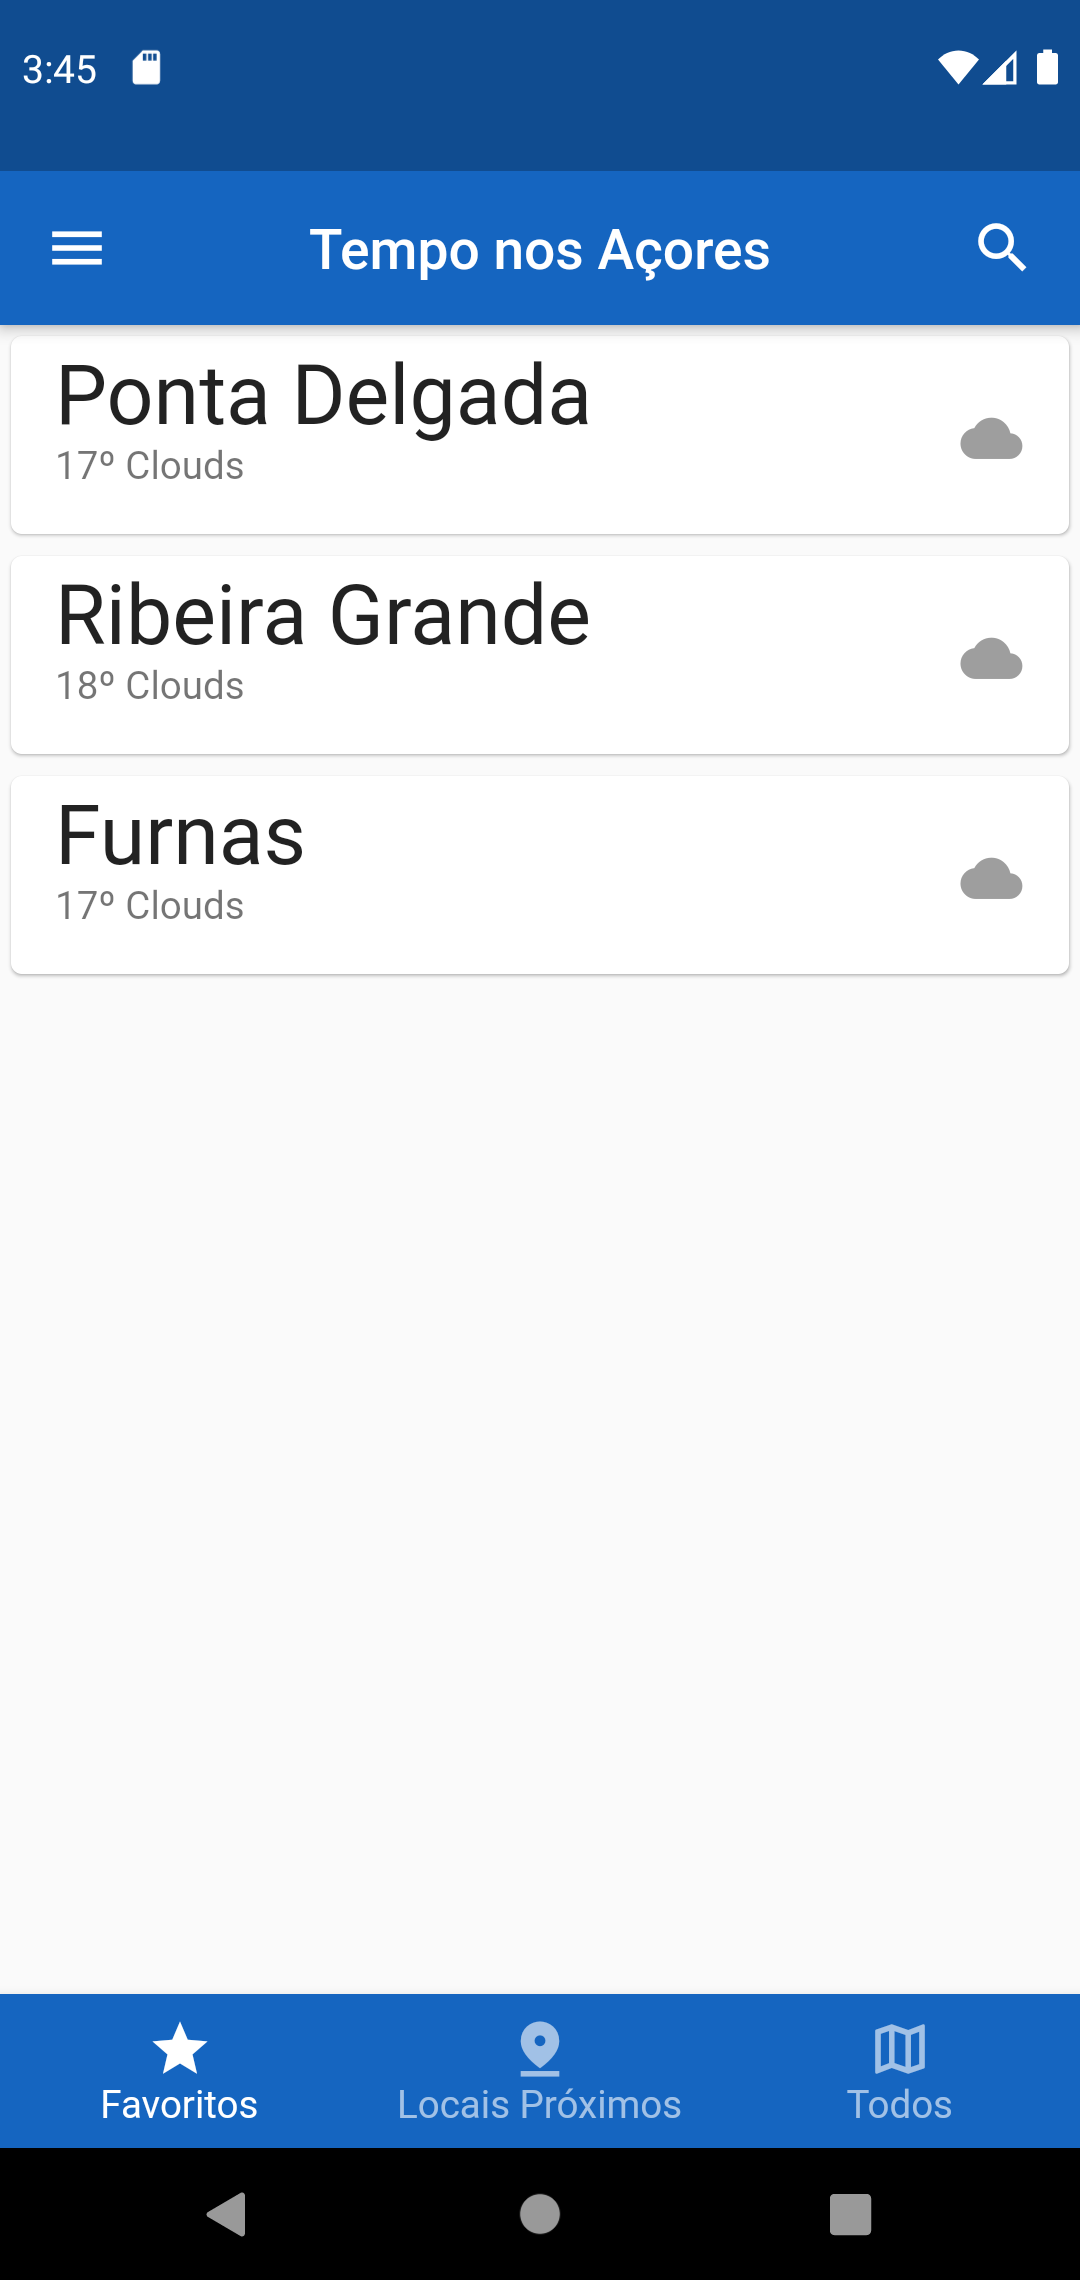
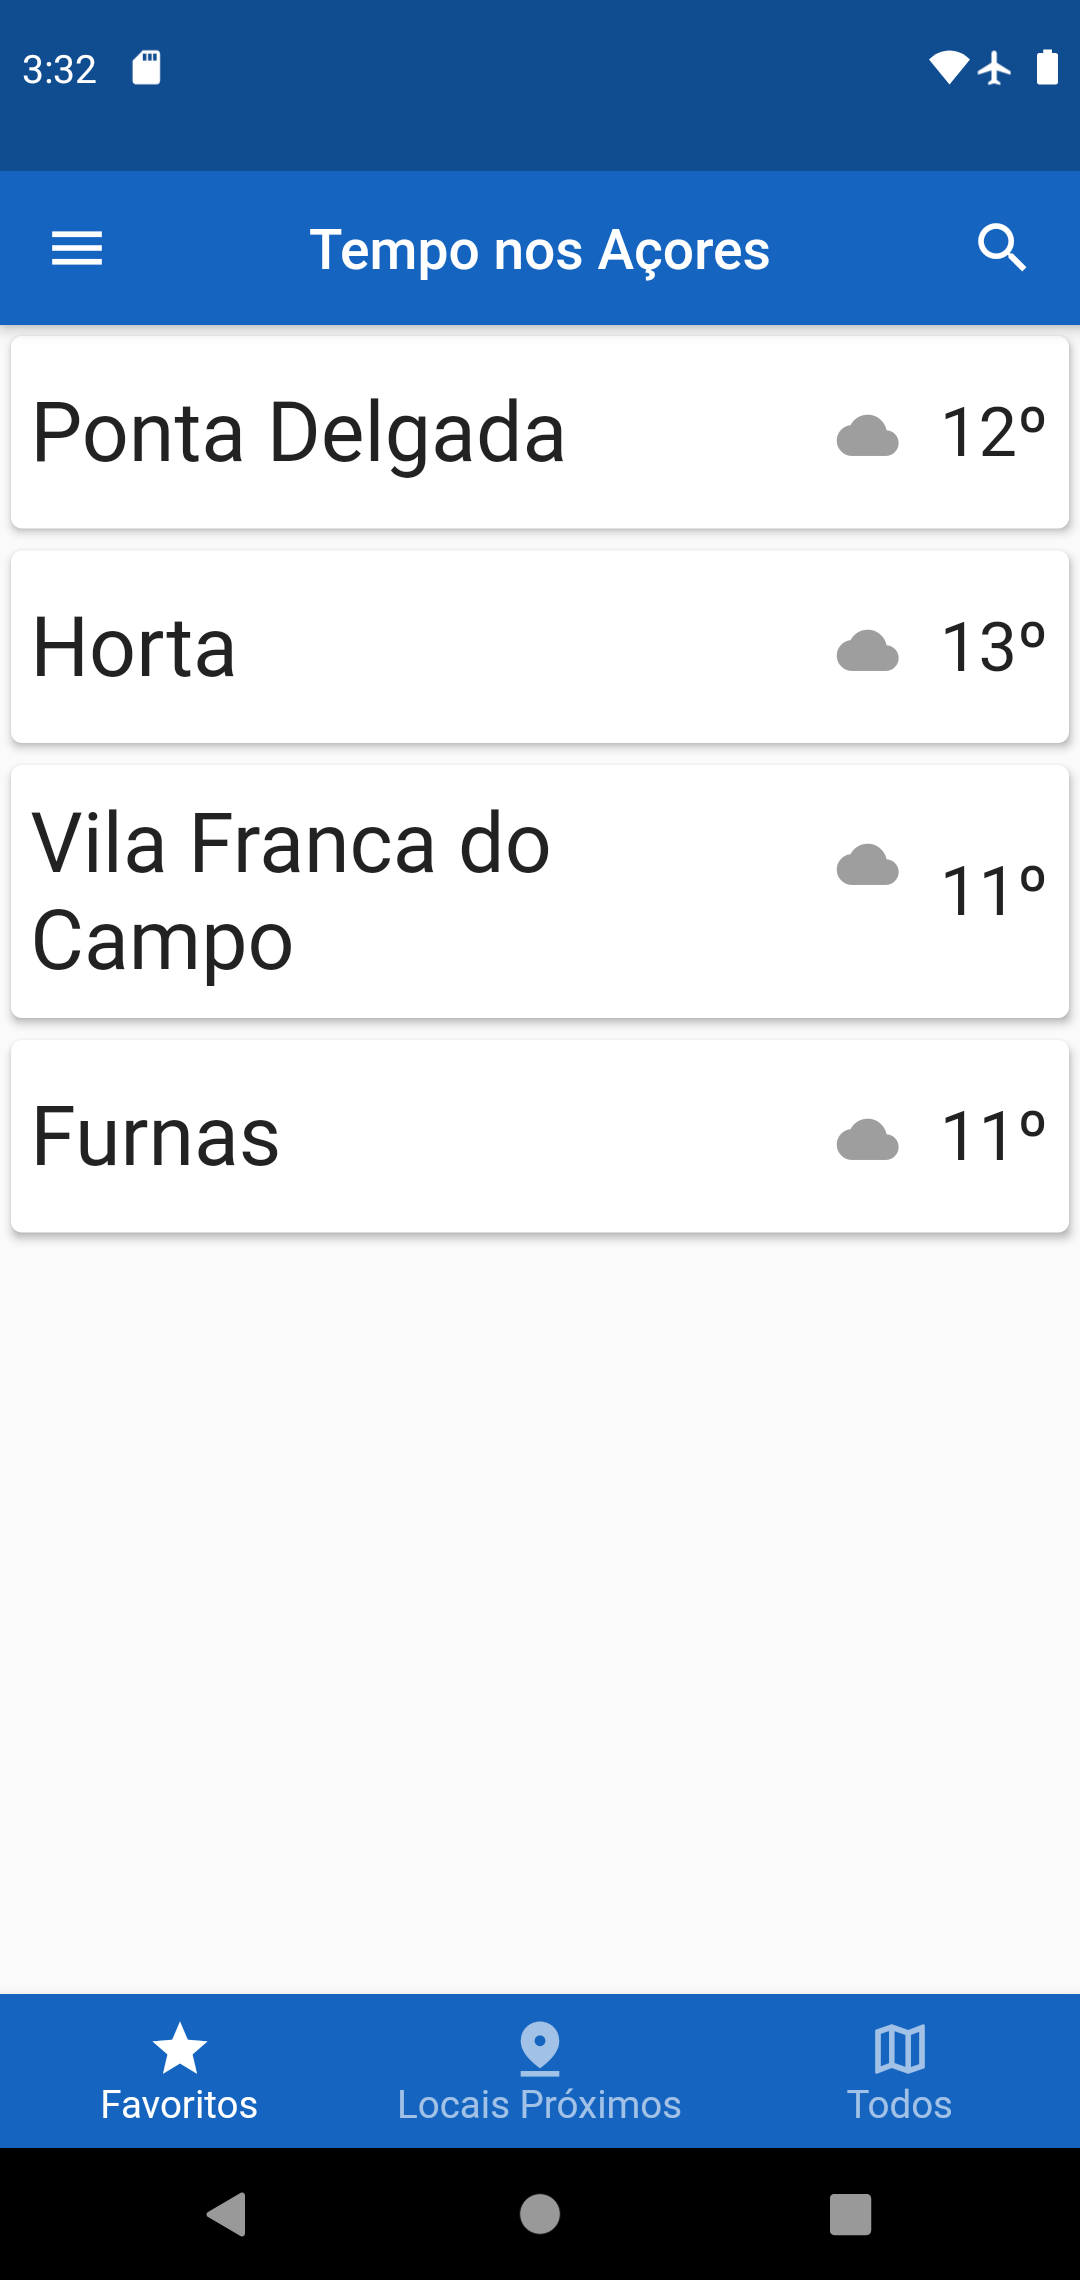
SpotPage done closes #7

diff --git a/azores_weather/lib/features/weather/presentation/pages/spot_page.dart b/azores_weather/lib/features/weather/presentation/pages/spot_page.dart
@@ -1,0 +1,192 @@
+import 'package:azores_weather/features/weather/domain/entities/spot.dart';
+import 'package:azores_weather/features/weather/presentation/widgets/weather_icon.dart';
+import 'package:flutter/material.dart';
+import 'package:flutter_icons/flutter_icons.dart';
+
+class SpotPage extends StatelessWidget {
+  final Spot spot;
+
+  const SpotPage({Key key, this.spot}) : super(key: key);
+  @override
+  Widget build(BuildContext context) {
+    return Scaffold(
+        appBar: AppBar(
+          centerTitle: true,
+          title: Text(
+            spot.name,
+          ),
+          actions: [
+            Padding(
+              padding: EdgeInsets.symmetric(horizontal: 16),
+              child: Icon(Icons.star_outline),
+            ),
+          ],
+        ),
+        body: Column(children: <Widget>[
+          Stack(
+            children: <Widget>[
+              Container(alignment: Alignment.topCenter, child: getSpotImage()),
+              Positioned(
+                bottom: 10,
+                right: 250,
+                child: Container(
+                  alignment: Alignment.bottomLeft,
+                  child: Card(
+                    margin: EdgeInsets.all(8),
+                    child: Padding(
+                      padding: const EdgeInsets.all(7.0),
+                      child: Row(
+                        children: [
+                          Icon(
+                            Icons.thermostat_rounded,
+                            size: 40,
+                          ),
+                          Text(
+                            spot.currentTemperature.toString() + "º",
+                            style: TextStyle(fontSize: 40.0),
+                          ),
+                        ],
+                      ),
+                    ),
+                  ),
+                ),
+              ),
+            ],
+          ),
+          new Expanded(
+            child: GridView.count(
+                padding: EdgeInsets.all(10),
+                // Create a grid with 2 columns. If you change the scrollDirection to
+                // horizontal, this would produce 2 rows.
+                crossAxisCount: 2,
+                // Generate 100 Widgets that display their index in the List
+                children: <Widget>[
+                  Container(
+                    //alignment: Alignment.topLeft,
+                    width: 120,
+                    height: 120,
+                    child: Card(
+                      child: Column(
+                        crossAxisAlignment: CrossAxisAlignment.center,
+                        mainAxisAlignment: MainAxisAlignment.center,
+                        children: [
+                          Transform.scale(
+                              child: weatherIcon(spot.weather), scale: 1.7),
+                          Text(
+                            spot.weather,
+                            style: TextStyle(fontSize: 30.0),
+                          ),
+                        ],
+                      ),
+                    ),
+                  ),
+                  Container(
+                    //alignment: Alignment.topRight,
+                    width: 120,
+                    height: 120,
+                    child: Card(
+                      child: Column(
+                        crossAxisAlignment: CrossAxisAlignment.center,
+                        mainAxisAlignment: MainAxisAlignment.center,
+                        children: [
+                          Row(
+                            children: [
+                              Icon(
+                                Icons.device_thermostat,
+                                size: 45,
+                                color: Colors.blue,
+                              ),
+                              Text(
+                                spot.minTemperature.toString() +
+                                    "º/" +
+                                    spot.maxTemperature.toString() +
+                                    "º",
+                                style: TextStyle(fontSize: 30.0),
+                              ),
+                            ],
+                          ),
+                          Text(
+                            "Temperatura",
+                            style: TextStyle(fontSize: 18.0),
+                          ),
+                        ],
+                      ),
+                    ),
+                  ),
+                  Container(
+                    //alignment: Alignment.topRight,
+                    width: 120,
+                    height: 120,
+                    child: Card(
+                      child: Column(
+                        crossAxisAlignment: CrossAxisAlignment.center,
+                        mainAxisAlignment: MainAxisAlignment.center,
+                        children: [
+                          Row(
+                            crossAxisAlignment: CrossAxisAlignment.center,
+                            mainAxisAlignment: MainAxisAlignment.center,
+                            children: [
+                              Icon(
+                                MaterialCommunityIcons.water_percent,
+                                color: Colors.blue.shade300,
+                                size: 50,
+                              ),
+                              Text(
+                                spot.humidity.toString() + "%",
+                                style: TextStyle(fontSize: 30.0),
+                              ),
+                            ],
+                          ),
+                          Text(
+                            "Humidade",
+                            style: TextStyle(fontSize: 18.0),
+                          ),
+                        ],
+                      ),
+                    ),
+                  ),
+                  Container(
+                    //alignment: Alignment.topRight,
+                    width: 120,
+                    height: 120,
+                    child: Card(
+                      child: Column(
+                        crossAxisAlignment: CrossAxisAlignment.center,
+                        mainAxisAlignment: MainAxisAlignment.center,
+                        children: [
+                          Row(
+                            crossAxisAlignment: CrossAxisAlignment.center,
+                            mainAxisAlignment: MainAxisAlignment.center,
+                            children: [
+                              Icon(
+                                Ionicons.md_speedometer,
+                                color: Colors.grey,
+                                size: 40,
+                              ),
+                              Text(
+                                spot.pressure.toString() + "hPa",
+                                style: TextStyle(fontSize: 22.0),
+                              ),
+                            ],
+                          ),
+                          Text(
+                            "Pressão",
+                            style: TextStyle(fontSize: 18.0),
+                          ),
+                        ],
+                      ),
+                    ),
+                  ),
+                ]),
+          ),
+        ]));
+  }
+
+  Image getSpotImage() {
+    var spotName = spot.name;
+    return Image.asset(
+      "assets/$spotName.jpg",
+      height: 260,
+    );
+  }
+}

diff --git a/azores_weather/lib/features/weather/presentation/widgets/weather_prev_widget.dart b/azores_weather/lib/features/weather/presentation/widgets/weather_prev_widget.dart
@@ -1,18 +1,10 @@
 import 'package:azores_weather/features/weather/domain/entities/spot.dart';
 import 'package:azores_weather/features/weather/presentation/bloc/weather_bloc.dart';
+import 'package:azores_weather/features/weather/presentation/pages/spot_page.dart';
+import 'package:azores_weather/features/weather/presentation/widgets/weather_icon.dart';
 import 'package:flutter/material.dart';
 import 'package:flutter_bloc/flutter_bloc.dart';
-import 'package:flutter_icons/flutter_icons.dart';
 import 'package:flutter_slidable/flutter_slidable.dart';
-
-const CLEAR_WEATHER = "Clear";
-const RAIN_WEATHER = "Rain";
-const CLOUDS_WEATHER = "Clouds";
-const DRIZZLE_WEATHER = "Drizzle";
-const THUNDERSTORM_WEATHER = "Thunderstorm";
-const SNOW_WEATHER = "Snow";
-const MIST_WEATHER = "Mist";
-const FOG_WEATHER = "Fog";
 
 class WeatherPrevWidget extends StatelessWidget {
   final Spot spot;
@@ -28,12 +20,20 @@ class WeatherPrevWidget extends StatelessWidget {
           child: Row(children: <Widget>[
             Expanded(
               child: ListTile(
-                  contentPadding: EdgeInsets.all(7),
-                  title: Text(
-                    spot.name,
-                    style: TextStyle(fontSize: 30),
-                  ),
-                  trailing: weatherIcon(spot.weather)),
+                contentPadding: EdgeInsets.all(7),
+                title: Text(
+                  spot.name,
+                  style: TextStyle(fontSize: 30),
+                ),
+                trailing: weatherIcon(spot.weather),
+                onTap: () {
+                  Navigator.push(
+                    context,
+                    MaterialPageRoute(
+                        builder: (context) => SpotPage(spot: spot)),
+                  );
+                },
+              ),
             ),
             Padding(
               padding: EdgeInsets.all(7),
@@ -60,33 +60,6 @@ class WeatherPrevWidget extends StatelessWidget {
         ),
       ],
     );
-  }
-
-  Icon weatherIcon(String weather) {
-    switch (weather) {
-      case THUNDERSTORM_WEATHER:
-        return Icon(
-          Ionicons.md_thunderstorm,
-          color: Colors.grey,
-        );
-      case RAIN_WEATHER:
-        return Icon(Ionicons.md_rainy, color: Colors.grey);
-      case CLOUDS_WEATHER:
-        return Icon(Ionicons.md_cloud, color: Colors.grey);
-      case DRIZZLE_WEATHER:
-        return Icon(Feather.cloud_drizzle, color: Colors.grey);
-      case MIST_WEATHER:
-        return Icon(MaterialCommunityIcons.weather_hazy, color: Colors.grey);
-      case FOG_WEATHER:
-        return Icon(MaterialCommunityIcons.weather_hazy, color: Colors.grey);
-      case CLEAR_WEATHER:
-        return Icon(
-          Icons.wb_sunny,
-          color: Colors.amber,
-        );
-      default:
-        return Icon(Icons.error, color: Colors.red);
-    }
   }
 
   void addToFavourites(BuildContext context) {

diff --git a/azores_weather/lib/features/weather/presentation/widgets/weather_icon.dart b/azores_weather/lib/features/weather/presentation/widgets/weather_icon.dart
@@ -1,0 +1,38 @@
+import 'package:flutter/material.dart';
+import 'package:flutter_icons/flutter_icons.dart';
+
+const CLEAR_WEATHER = "Clear";
+const RAIN_WEATHER = "Rain";
+const CLOUDS_WEATHER = "Clouds";
+const DRIZZLE_WEATHER = "Drizzle";
+const THUNDERSTORM_WEATHER = "Thunderstorm";
+const SNOW_WEATHER = "Snow";
+const MIST_WEATHER = "Mist";
+const FOG_WEATHER = "Fog";
+
+Icon weatherIcon(String weather) {
+  switch (weather) {
+    case THUNDERSTORM_WEATHER:
+      return Icon(
+        Ionicons.md_thunderstorm,
+        color: Colors.grey,
+      );
+    case RAIN_WEATHER:
+      return Icon(Ionicons.md_rainy, color: Colors.grey);
+    case CLOUDS_WEATHER:
+      return Icon(Ionicons.md_cloud, color: Colors.grey);
+    case DRIZZLE_WEATHER:
+      return Icon(Feather.cloud_drizzle, color: Colors.grey);
+    case MIST_WEATHER:
+      return Icon(MaterialCommunityIcons.weather_hazy, color: Colors.grey);
+    case FOG_WEATHER:
+      return Icon(MaterialCommunityIcons.weather_hazy, color: Colors.grey);
+    case CLEAR_WEATHER:
+      return Icon(
+        Icons.wb_sunny,
+        color: Colors.amber,
+      );
+    default:
+      return Icon(Icons.error, color: Colors.red);
+  }
+}

diff --git a/README.md b/README.md
@@ -4,10 +4,12 @@
 
 ## Features:
 - Check the weather for favourite locations
+- Check the weather for all the locations in the Azores
 - Check the weather for near locations (TODO)
-- Check the weather for all the locations in the Azores (TODO)
 - Add/Remove locations to your favourites (TODO)
 - Search for locations (TODO)
 - Settings (TODO)
 
 <img src="previews/favs_page_preview.png" width="400">
+<img src="previews/spot_page_preview.png" width="400">
+<img src="previews/all_page_preview.png" width="400">
